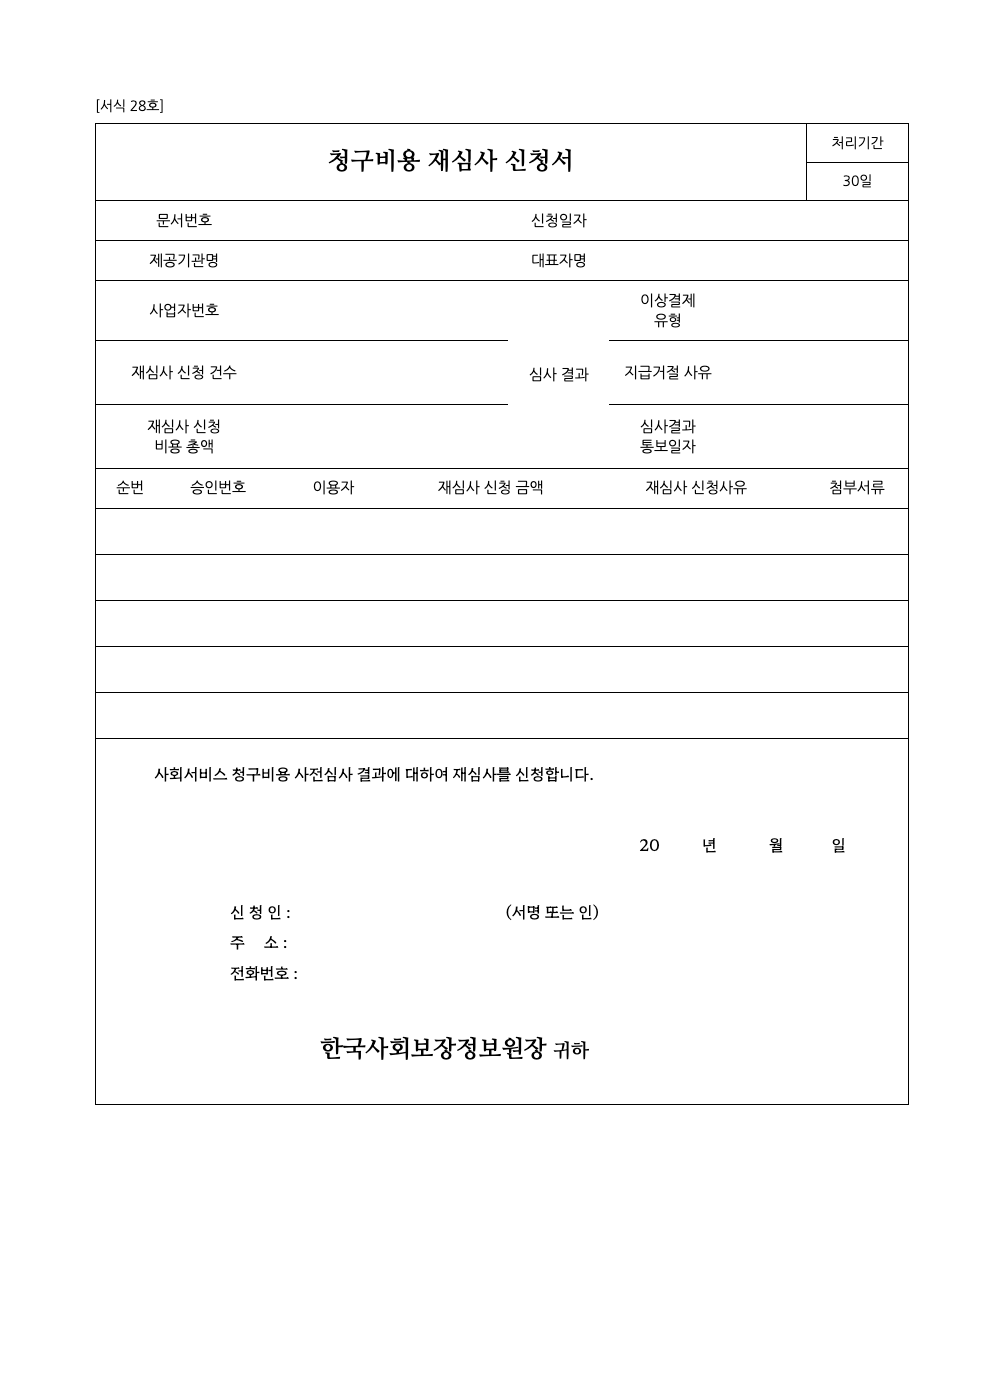
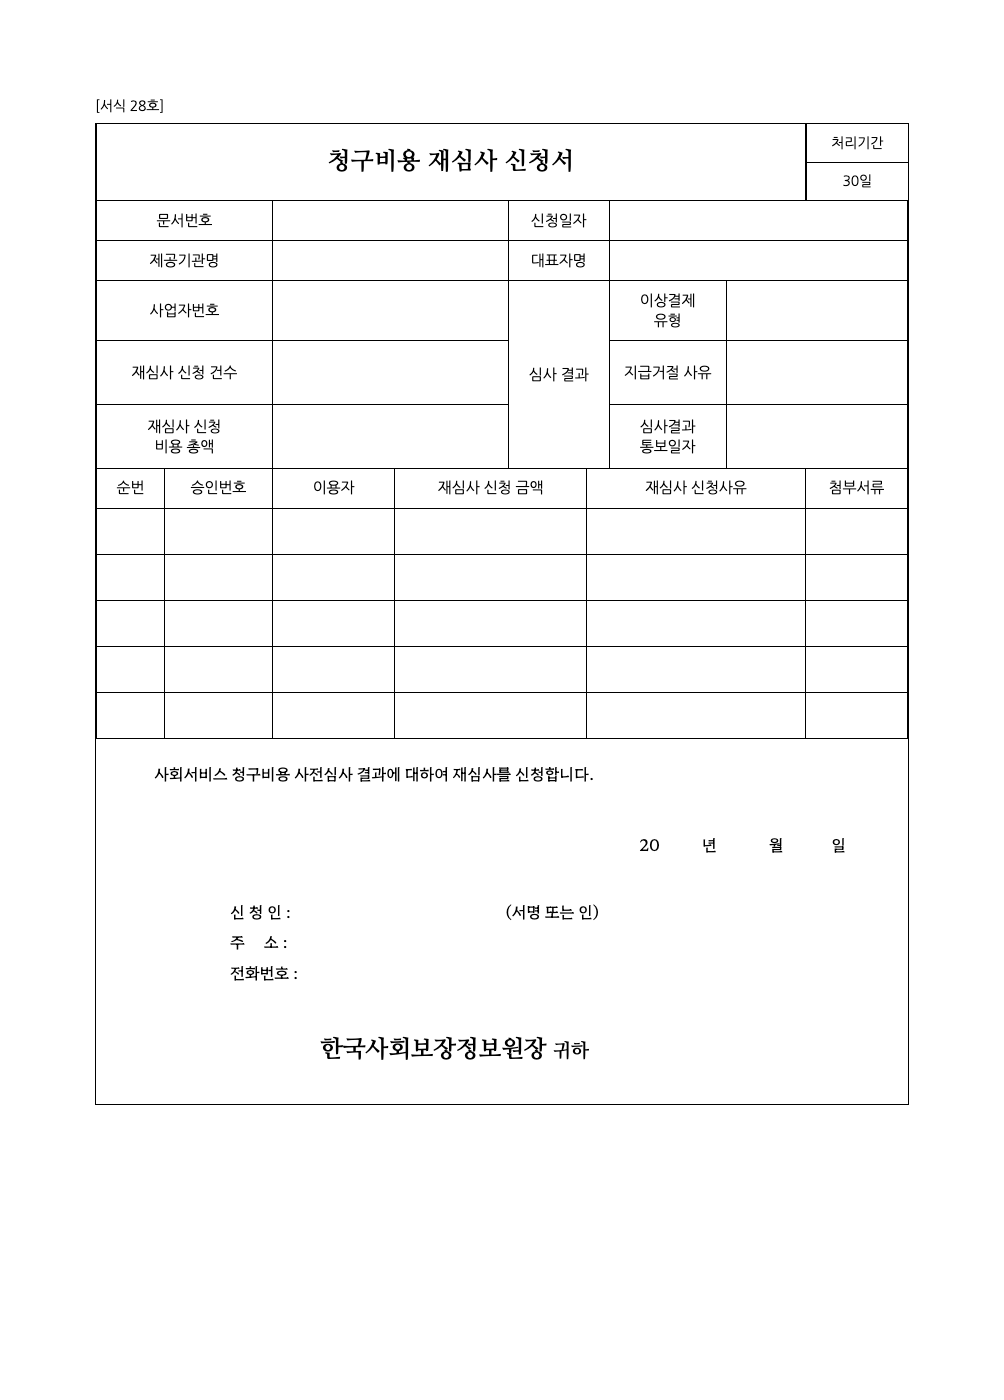
replica 정정: 28호 세로 괘선 복원(전사 오류), 25호 본문 1행 추가 — 원본 대조로 발견

diff --git a/4_replica/html/2편_서식25호_발달재활서비스_제공_현황_보고-1.html b/4_replica/html/2편_서식25호_발달재활서비스_제공_현황_보고-1.html
@@ -31,5 +31,6 @@ td.h{height:auto;font-size:12.5px}
 <tr><td><span data-f="text" class="cgf"></span></td><td><span data-f="number" class="cgf"></span></td><td><span data-f="text" class="cgf"></span></td><td><span data-f="number" class="cgf"></span></td><td><span data-f="number" class="cgf"></span></td><td><span data-f="number" class="cgf"></span></td><td><span data-f="number" class="cgf"></span></td><td><span data-f="number" class="cgf"></span></td><td><span data-f="number" class="cgf"></span></td><td><span data-f="number" class="cgf"></span></td><td><span data-f="number" class="cgf"></span></td><td><span data-f="number" class="cgf"></span></td><td><span data-f="number" class="cgf"></span></td><td><span data-f="number" class="cgf"></span></td><td><span data-f="number" class="cgf"></span></td><td><span data-f="number" class="cgf"></span></td><td><span data-f="number" class="cgf"></span></td><td><span data-f="number" class="cgf"></span></td><td><span data-f="number" class="cgf"></span></td><td><span data-f="number" class="cgf"></span></td><td><span data-f="number" class="cgf"></span></td><td><span data-f="number" class="cgf"></span></td><td><span data-f="number" class="cgf"></span></td><td><span data-f="number" class="cgf"></span></td><td><span data-f="number" class="cgf"></span></td></tr>
 <tr><td><span data-f="text" class="cgf"></span></td><td><span data-f="number" class="cgf"></span></td><td><span data-f="text" class="cgf"></span></td><td><span data-f="number" class="cgf"></span></td><td><span data-f="number" class="cgf"></span></td><td><span data-f="number" class="cgf"></span></td><td><span data-f="number" class="cgf"></span></td><td><span data-f="number" class="cgf"></span></td><td><span data-f="number" class="cgf"></span></td><td><span data-f="number" class="cgf"></span></td><td><span data-f="number" class="cgf"></span></td><td><span data-f="number" class="cgf"></span></td><td><span data-f="number" class="cgf"></span></td><td><span data-f="number" class="cgf"></span></td><td><span data-f="number" class="cgf"></span></td><td><span data-f="number" class="cgf"></span></td><td><span data-f="number" class="cgf"></span></td><td><span data-f="number" class="cgf"></span></td><td><span data-f="number" class="cgf"></span></td><td><span data-f="number" class="cgf"></span></td><td><span data-f="number" class="cgf"></span></td><td><span data-f="number" class="cgf"></span></td><td><span data-f="number" class="cgf"></span></td><td><span data-f="number" class="cgf"></span></td><td><span data-f="number" class="cgf"></span></td></tr>
 <tr><td><span data-f="text" class="cgf"></span></td><td><span data-f="number" class="cgf"></span></td><td><span data-f="text" class="cgf"></span></td><td><span data-f="number" class="cgf"></span></td><td><span data-f="number" class="cgf"></span></td><td><span data-f="number" class="cgf"></span></td><td><span data-f="number" class="cgf"></span></td><td><span data-f="number" class="cgf"></span></td><td><span data-f="number" class="cgf"></span></td><td><span data-f="number" class="cgf"></span></td><td><span data-f="number" class="cgf"></span></td><td><span data-f="number" class="cgf"></span></td><td><span data-f="number" class="cgf"></span></td><td><span data-f="number" class="cgf"></span></td><td><span data-f="number" class="cgf"></span></td><td><span data-f="number" class="cgf"></span></td><td><span data-f="number" class="cgf"></span></td><td><span data-f="number" class="cgf"></span></td><td><span data-f="number" class="cgf"></span></td><td><span data-f="number" class="cgf"></span></td><td><span data-f="number" class="cgf"></span></td><td><span data-f="number" class="cgf"></span></td><td><span data-f="number" class="cgf"></span></td><td><span data-f="number" class="cgf"></span></td><td><span data-f="number" class="cgf"></span></td></tr>
+<tr><td><span data-f="text" class="cgf"></span></td><td><span data-f="number" class="cgf"></span></td><td><span data-f="text" class="cgf"></span></td><td><span data-f="number" class="cgf"></span></td><td><span data-f="number" class="cgf"></span></td><td><span data-f="number" class="cgf"></span></td><td><span data-f="number" class="cgf"></span></td><td><span data-f="number" class="cgf"></span></td><td><span data-f="number" class="cgf"></span></td><td><span data-f="number" class="cgf"></span></td><td><span data-f="number" class="cgf"></span></td><td><span data-f="number" class="cgf"></span></td><td><span data-f="number" class="cgf"></span></td><td><span data-f="number" class="cgf"></span></td><td><span data-f="number" class="cgf"></span></td><td><span data-f="number" class="cgf"></span></td><td><span data-f="number" class="cgf"></span></td><td><span data-f="number" class="cgf"></span></td><td><span data-f="number" class="cgf"></span></td><td><span data-f="number" class="cgf"></span></td><td><span data-f="number" class="cgf"></span></td><td><span data-f="number" class="cgf"></span></td><td><span data-f="number" class="cgf"></span></td><td><span data-f="number" class="cgf"></span></td><td><span data-f="number" class="cgf"></span></td></tr>
 </table>
 <div class="note" style="font-family:'NanumDotum';font-size:14px">※ 반드시 엑셀로 작성</div>

diff --git a/4_replica/html/2편_서식28호_청구비용_재심사_신청서-1.html b/4_replica/html/2편_서식28호_청구비용_재심사_신청서-1.html
@@ -3,7 +3,7 @@
 <style>
 .outer{border:1.5px solid #000;padding:0}
 table{border:none;font-size:15px}
-td{height:40px;padding:2px 6px;position:relative;text-align:center;border-left:none;border-right:none;line-height:1.35}
+td{height:40px;padding:2px 6px;position:relative;text-align:center;line-height:1.35}   /* 2026-09-16 정정: 원본에는 세로 괘선이 있다(하단 격자 세로선 13개) — border-left/right:none 이 전사 오류였음 */
 tr:first-child td{border-top:none}
 td.tl{text-align:left}
 .cgf{top:3px;bottom:3px;left:3px;right:3px}

diff --git a/4_replica/README.md b/4_replica/README.md
@@ -51,4 +51,7 @@
     14쪽 처리절차는 inline SVG 로 그렸다.
 - `render/index.html` 갤러리는 다른 배치와의 충돌을 피해 이번 배치에서 갱신하지 않았다(재생성 필요).
 - 2026-09-11 lint L6: 글머리 ○/□ 뒤에 입력 요소가 오는 줄은 마커가 아니므로 제외(2편 22호 오탐 해소, NEW_PATTERNS 2 의 ::before 우회는 불필요해짐). 위반 0 / 157장.
+- **2026-09-16 정정 2건 (원본 대조로 발견)**: 원본 스캔에 모델을 돌린 뒤 오버레이를 원본과 비교하다 전사 오류를 찾았다.
+  - `2편_서식28호-1`(평가분): 원본 하단 격자에는 **세로 괘선이 있는데** 복제본 CSS 가 `td{border-left:none;border-right:none}` 이라 가로선만 있었다. 원본 세로선 그룹 13 vs 복제본 2. → 규칙 삭제, 재렌더. **이 전사 오류가 `hrule_table`(x3) 카드의 근거였다** — 28호 recall 17%→95% 개선의 상당 부분이 우리 오류를 학습한 결과일 수 있다(8_train/docs/DECISIONS 26).
+  - `2편_서식25호-1`(학습분): 본문 행이 원본보다 1행 적었다(가로선 원본 19 vs 복제본 18). 한 행 추가 후 GT 350→375, 가로선 19=19. 모델이 원본에서 낸 예측 375 와 일치.
 
